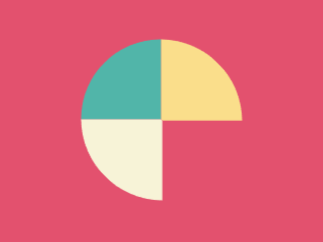
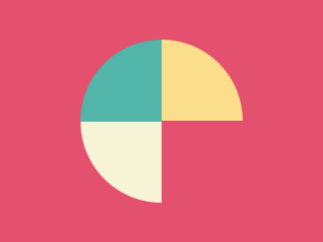
Score: 653.03, Characters: 212 (100.00% match) - CSSHub

diff --git a/Battles/Battle #1/#6. Missing Slice/README.md b/Battles/Battle #1/#6. Missing Slice/README.md
@@ -1,6 +1,6 @@
 # #6. Missing Slice
 
-Challenge: <https://cssbattle.dev/play/6>
+Challenge: <https://cssbattle.dev/play/6#>
 
 ## Result
 
@@ -22,17 +22,19 @@ Challenge: <https://cssbattle.dev/play/6>
 ## Code
 
 ```html
-<div></div>
 <style>
-  body{
-    background: #E3516E;
-    margin: 50px 100px;
-  }
-  div{
-    border: 100px solid;
+& {
+  background: #e3516e;
+  margin: 42 92;
+  * {
     border-radius: 50%;
-    border-color: #FADE8B transparent #F7F3D7 #51B5A9;
-    transform: rotate(45deg);
+    background: conic-gradient(
+      #fade8b 25%,
+      #e3516e 0 50%,
+      #f7f3d7 0 75%,
+      #51b5a9 0
+    );
   }
+}
 </style>
 ```

diff --git a/README.md b/README.md
@@ -13,7 +13,7 @@ Here are the challenges I have completed from [CSS Battle](https://cssbattle.dev
 <summary><strong>Battle #1 (1)</strong></summary>
 
 <ul>
-<li><a href="./Battles/Battle%20%231/%236.%20Missing%20Slice/">#6. Missing Slice</a> (234 Characters)</li>
+<li><a href="./Battles/Battle%20%231/%236.%20Missing%20Slice/">#6. Missing Slice</a> (212 Characters)</li>
 </ul>
 </details>
 </li>